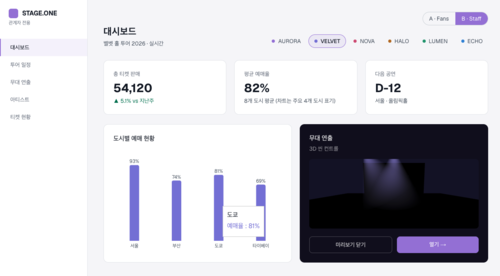
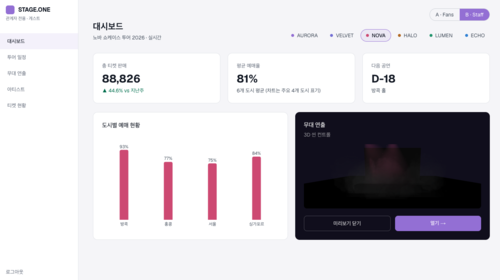
docs: replace README screenshots with new A-tab GIF and B-tab captures

diff --git a/README.md b/README.md
@@ -10,13 +10,12 @@ A dual-perspective platform for a fictional entertainment label — the stage fa
 
 > **Live demo:** https://on-stage-nine.vercel.app/
 
-![A탭 · 레이블 메인 궤도](public/screenshots/a-tab-orbit.png)
-![A탭 · 아티스트 Hero 01](public/screenshots/a-tab-hero01.png)
-![A탭 · 아티스트 Hero 02](public/screenshots/a-tab-hero02.png)
-![A탭 · 아티스트 Hero 03](public/screenshots/a-tab-hero03.png)
-![A탭 · 아티스트 Hero 04](public/screenshots/a-tab-hero04.png)
+![A탭 · 레이블 메인 궤도부터 아티스트 Hero까지](public/screenshots/a-tab.gif)
 ![B탭 · 대시보드](public/screenshots/b-dashboard.png)
+![B탭 · 투어 일정 관리](public/screenshots/b-tour.png)
 ![B탭 · 무대 연출 3D 툴](public/screenshots/b-stage.png)
+![B탭 · 아티스트 편집](public/screenshots/b-artist01.png)
+![B탭 · 트랙 관리 · 갤러리](public/screenshots/b-artist02.png)
 
 ---
 
